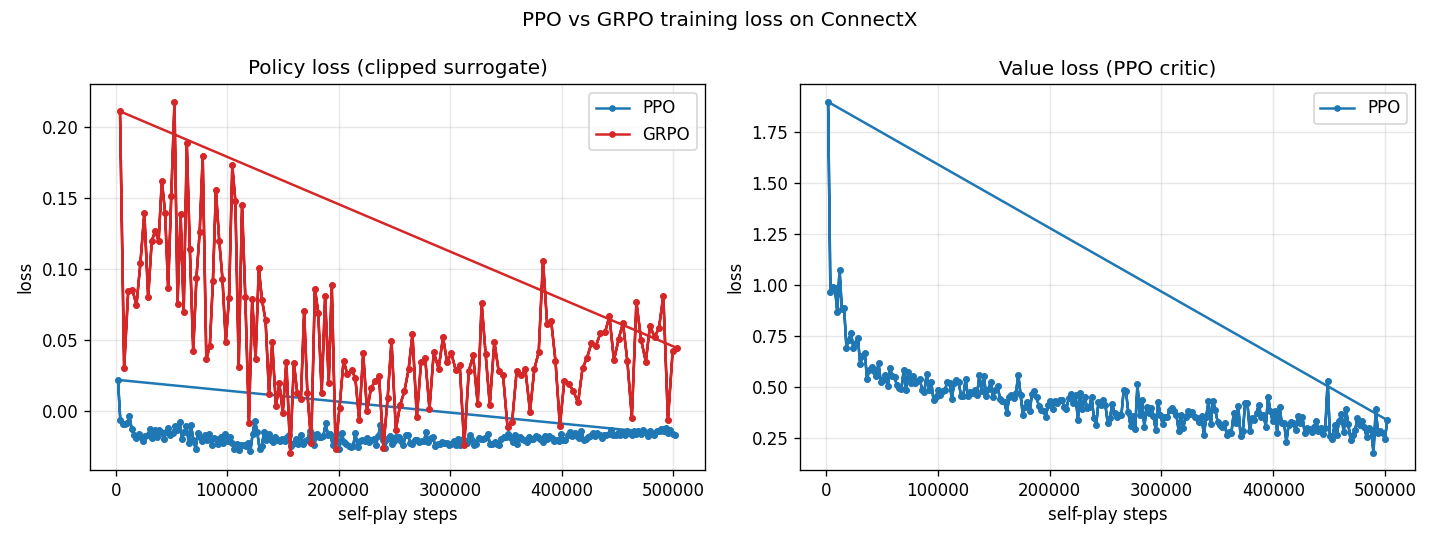
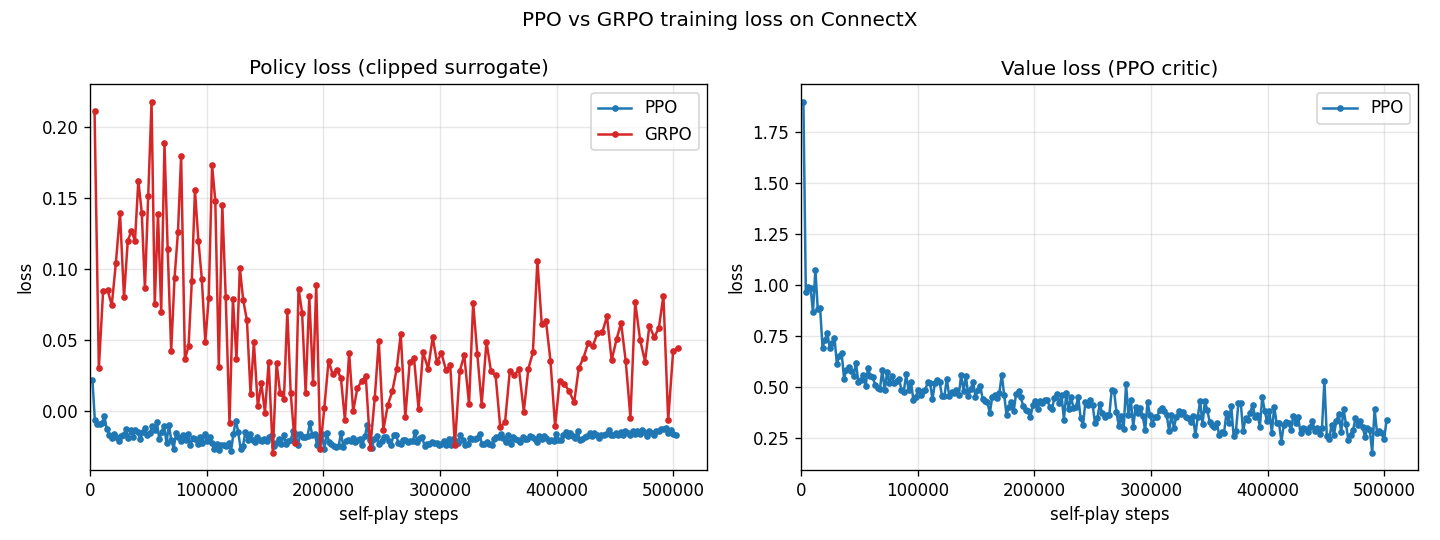
fix plot bugs

diff --git a/compare.py b/compare.py
@@ -47,6 +47,22 @@ def load_policy(exp, seed):
     return build_agent(exp, seed=seed).load(path).greedy_policy()
 
 
+def metric_points(curve, metric):
+    """Return sorted unique (step, metric) points for plotting.
+
+    Older result files appended dense loss logs after eval logs, which made
+    x-values jump backwards and produced long diagonal lines in matplotlib.
+    """
+    points = {}
+    for m in curve:
+        step = m.get("step")
+        value = m.get(metric)
+        if step is None or value is None:
+            continue
+        points[step] = value
+    return sorted(points.items())
+
+
 def plot_curves(curves, seed):
     fig, axes = plt.subplots(1, 2, figsize=(12, 4.5))
     for metric, ax, title in [("random_win", axes[0], "Win rate vs Random"),
@@ -56,7 +72,7 @@ def plot_curves(curves, seed):
             if not c:
                 continue
             # 只取有evaluation数据的条目（有metric的）
-            pts = [(m["step"], m[metric]) for m in c["curve"] if metric in m]
+            pts = metric_points(c["curve"], metric)
             if pts:
                 xs, ys = zip(*pts)
                 ax.plot(xs, ys, marker="o", ms=3, label=exp.upper(), color=COLORS[exp])
@@ -77,22 +93,34 @@ def plot_loss(curves, seed):
     """Training loss curves: policy (clipped surrogate) for both methods, and
     value loss for PPO (GRPO is critic-free, so it has none)."""
     fig, axes = plt.subplots(1, 2, figsize=(12, 4.5))
+
+    # 收集所有数据点以自动适配坐标轴范围
+    all_x_vals = []
+
     for exp in EXPERIMENTS:
         c = curves.get(exp)
         if not c:
             continue
-        pts = [(m["step"], m.get("ploss")) for m in c["curve"]
-               if m.get("ploss") is not None]
+        pts = metric_points(c["curve"], "ploss")
         if pts:
             xs, ys = zip(*pts)
+            all_x_vals.extend(xs)
             axes[0].plot(xs, ys, marker="o", ms=3, label=exp.upper(),
                          color=COLORS[exp])
-        vpts = [(m["step"], m.get("vloss")) for m in c["curve"]
-                if m.get("vloss") is not None]
+        vpts = metric_points(c["curve"], "vloss")
         if vpts:
             xs, ys = zip(*vpts)
+            all_x_vals.extend(xs)
             axes[1].plot(xs, ys, marker="o", ms=3, label=exp.upper(),
                          color=COLORS[exp])
+
+    # 设置 x 轴范围，自动适配所有数据
+    if all_x_vals:
+        x_max = max(all_x_vals)
+        x_range = (x_max - 0) * 0.05  # 右边留出5%的空间
+        axes[0].set_xlim(0, x_max + x_range)
+        axes[1].set_xlim(0, x_max + x_range)
+
     axes[0].set_title("Policy loss (clipped surrogate)")
     axes[1].set_title("Value loss (PPO critic)")
     for ax in axes:

diff --git a/rl/grpo.py b/rl/grpo.py
@@ -222,18 +222,19 @@ class GRPOAgent:
         next_eval = eval_every
         next_snap = c.snapshot_every
         next_loss_log = 10  # log loss every 10 steps
-        loss_curve: list = []
         t0 = time.time()
         while self.steps < total_steps:
             roll, train_wr = self._collect()
             self._apply_lr()
             losses = self._update(roll)
+            record = None
             if self.steps >= next_loss_log:
-                loss_curve.append({
+                record = {
                     "step": self.steps,
                     "ploss": round(losses["policy_loss"], 4),
                     "entropy": round(losses["entropy"], 3),
-                })
+                }
+                log.append(record)
                 next_loss_log += 10
             if self.steps >= next_snap:
                 self.pool.add(self.snapshot())
@@ -249,7 +250,10 @@ class GRPOAgent:
                                ploss=round(losses["policy_loss"], 4),
                                entropy=round(losses["entropy"], 3),
                                lr=lr_now, opp_mix=mix)
-                log.append(metrics)
+                if record is not None:
+                    record.update(metrics)
+                else:
+                    log.append(metrics)
                 sps = self.steps / max(1e-9, time.time() - t0)
                 print(f"[grpo] step {self.steps:>7}/{total_steps} | "
                       f"vs random {metrics['random_win']:.2f} "
@@ -259,7 +263,6 @@ class GRPOAgent:
                       f"train_wr {train_wr:.2f} | mix r/n/s {mix[0]:.2f}/{mix[1]:.2f}/{mix[2]:.2f} "
                       f"lr {lr_now:.1e} | {sps:.0f} st/s", flush=True)
                 next_eval += eval_every
-        log.extend(loss_curve)
         return log
 
     # io ----------------------------------------------------------------

diff --git a/rl/ppo.py b/rl/ppo.py
@@ -228,19 +228,20 @@ class PPOAgent:
         next_eval = eval_every
         next_snap = c.snapshot_every
         next_loss_log = 10  # log loss every 10 steps
-        loss_curve: list = []
         t0 = time.time()
         while self.steps < total_steps:
             roll = self._collect()
             self._apply_lr()
             losses = self._update(roll)
+            record = None
             if self.steps >= next_loss_log:
-                loss_curve.append({
+                record = {
                     "step": self.steps,
                     "ploss": round(losses["policy_loss"], 4),
                     "vloss": round(losses["value_loss"], 4),
                     "entropy": round(losses["entropy"], 3),
-                })
+                }
+                log.append(record)
                 next_loss_log += 10
             if self.steps >= next_snap:
                 self.pool.add(self.snapshot())
@@ -256,7 +257,10 @@ class PPOAgent:
                                vloss=round(losses["value_loss"], 4),
                                entropy=round(losses["entropy"], 3),
                                lr=lr_now, opp_mix=mix)
-                log.append(metrics)
+                if record is not None:
+                    record.update(metrics)
+                else:
+                    log.append(metrics)
                 sps = self.steps / max(1e-9, time.time() - t0)
                 print(f"[ppo ] step {self.steps:>7}/{total_steps} | "
                       f"vs random {metrics['random_win']:.2f} "
@@ -266,7 +270,6 @@ class PPOAgent:
                       f"ent {metrics['entropy']:.2f} | mix r/n/s {mix[0]:.2f}/{mix[1]:.2f}/{mix[2]:.2f} "
                       f"lr {lr_now:.1e} | {sps:.0f} st/s", flush=True)
                 next_eval += eval_every
-        log.extend(loss_curve)
         return log
 
     # io ----------------------------------------------------------------